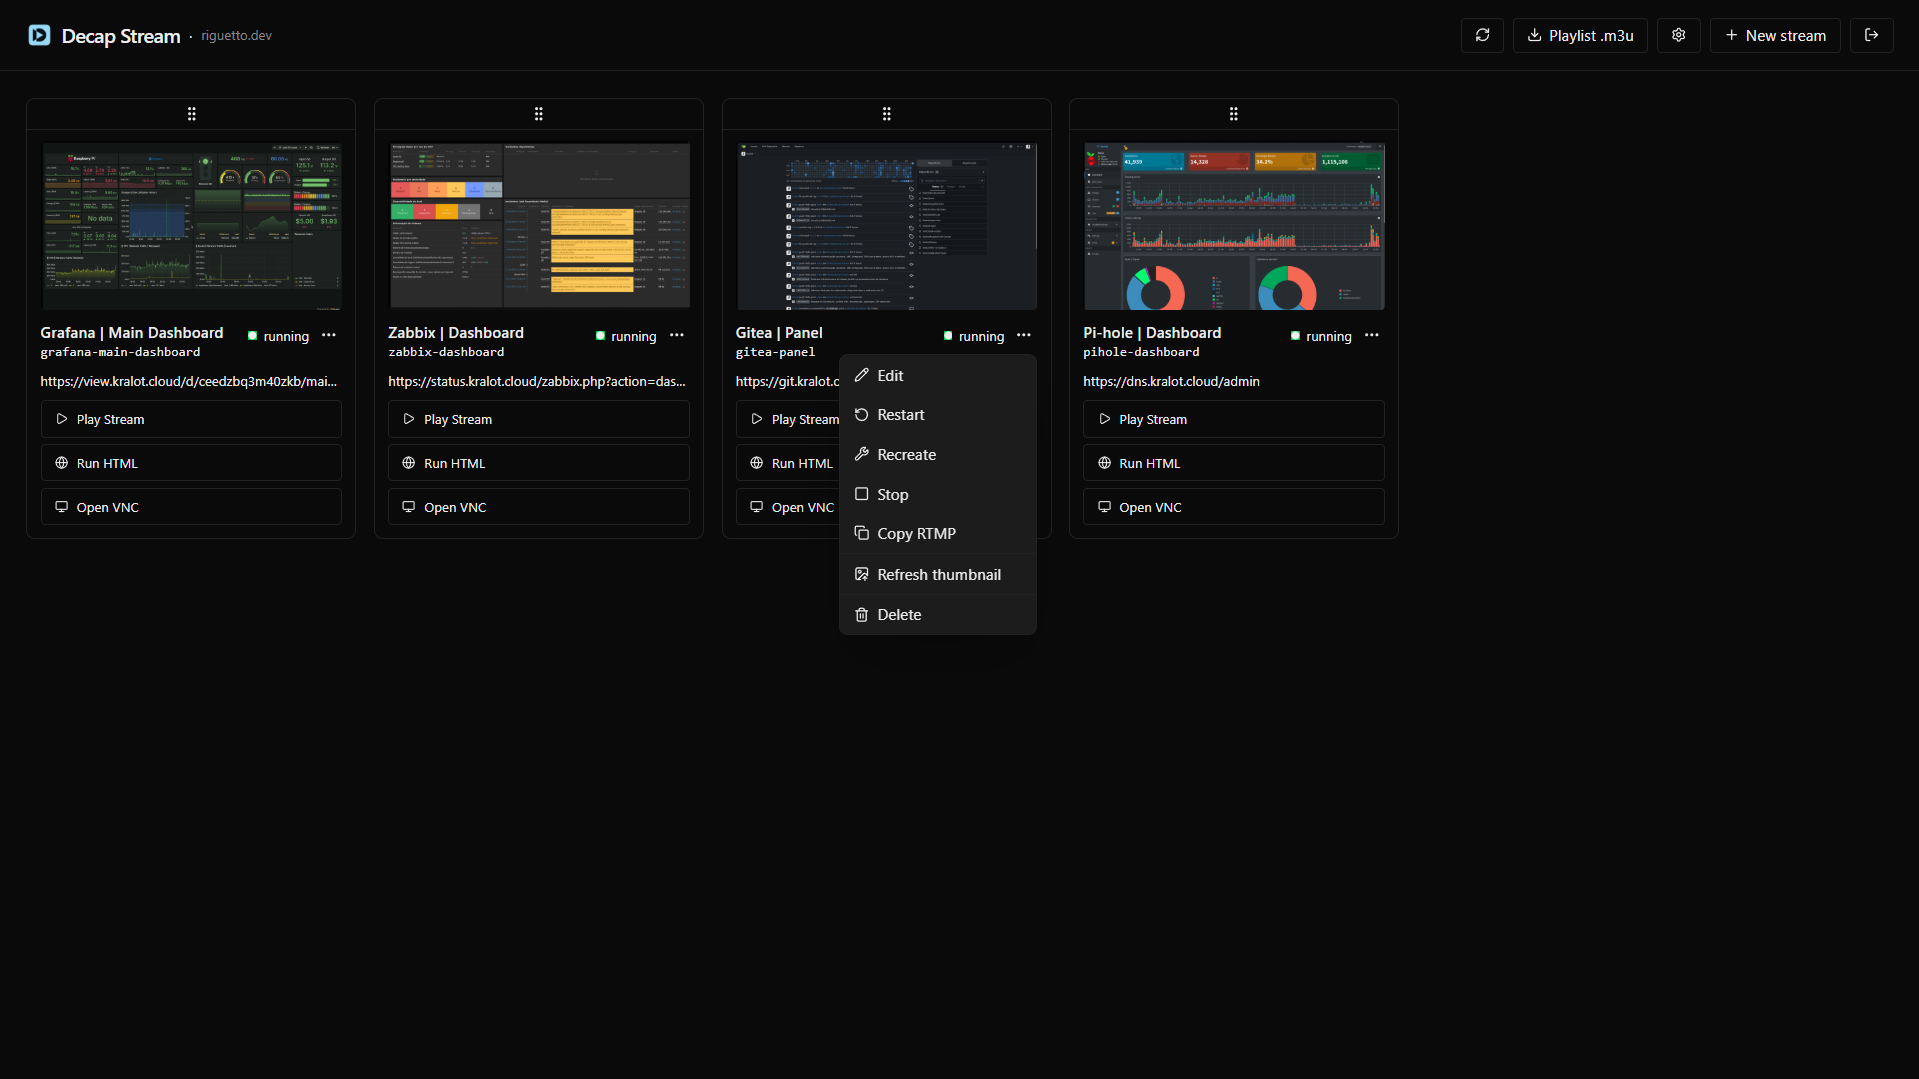
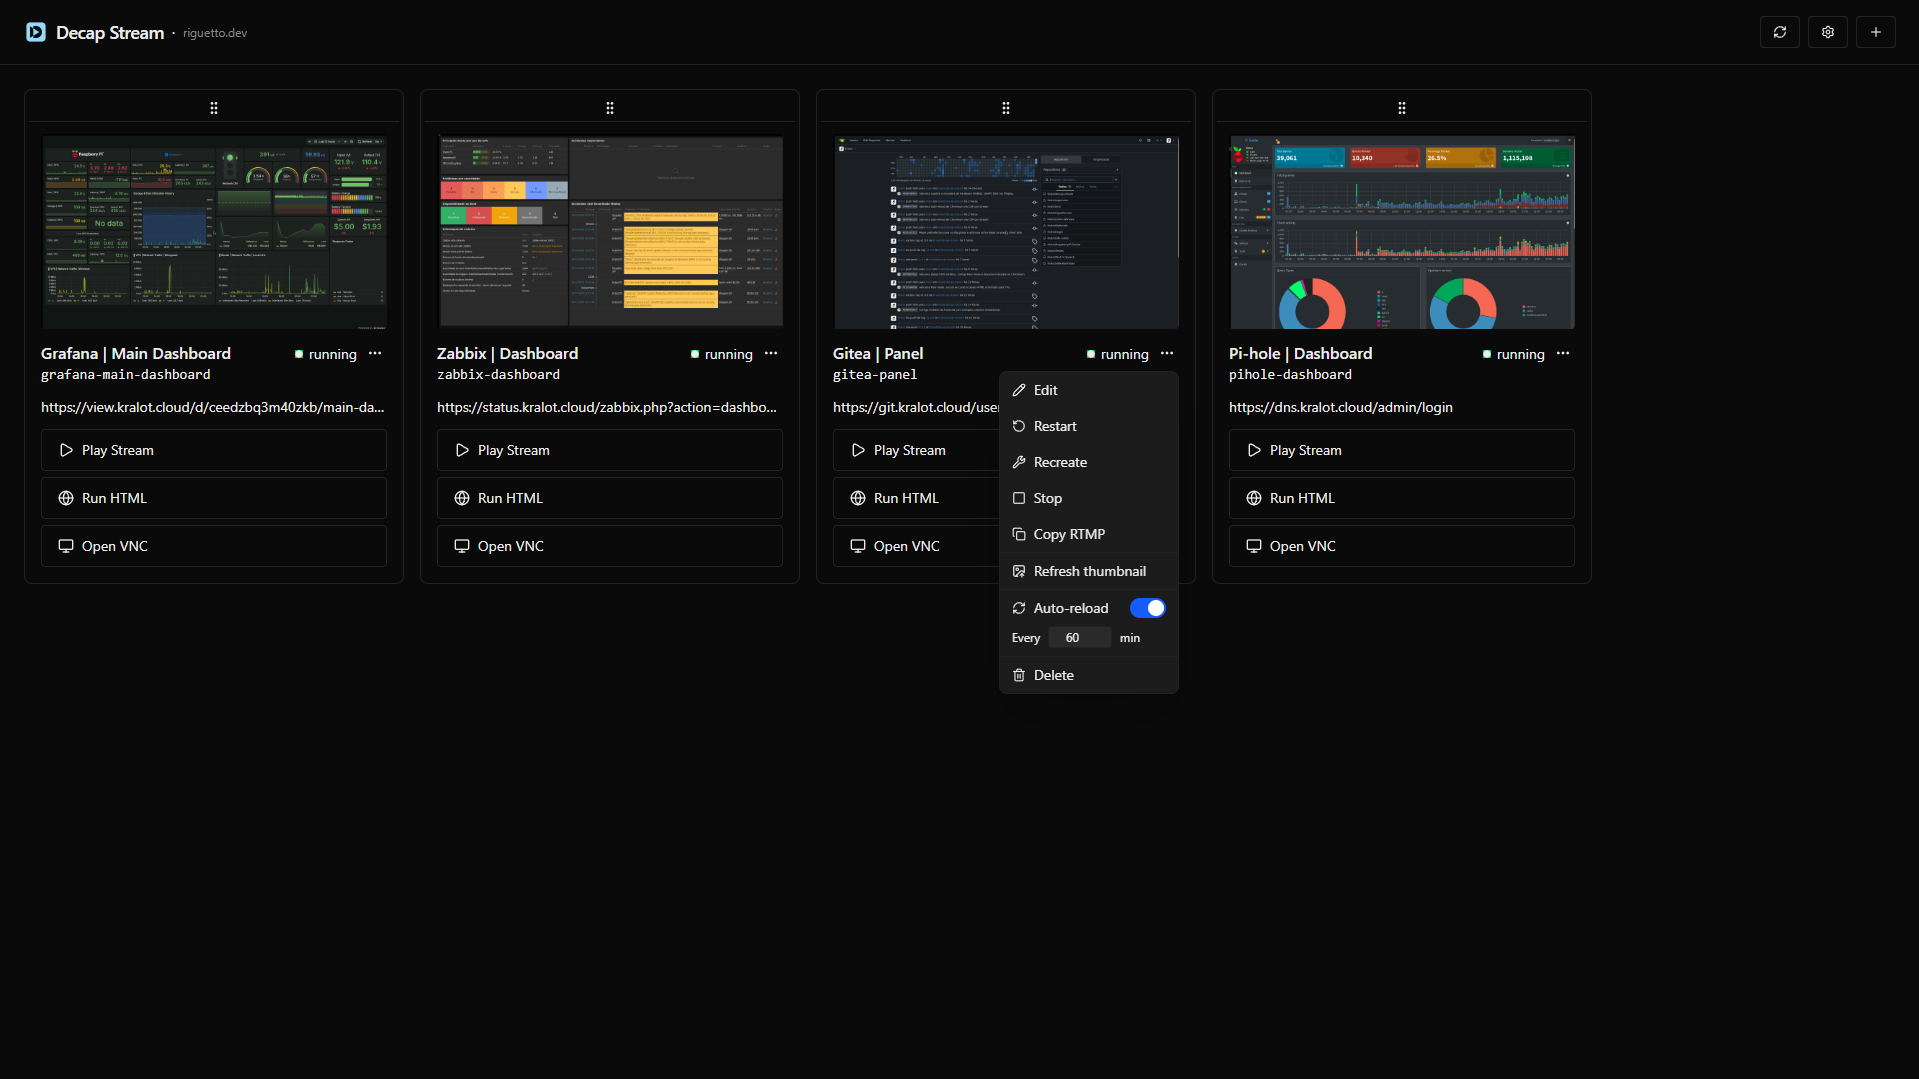
Adiciona layout mobile responsivo e ícones PWA
---

- Adicionado FABs flutuantes (Refresh e Add) no canto inferior direito para telas abaixo de 640px;
- Ocultados botões de Refresh e Add do header no mobile (hidden sm:flex);
- Cards passam a ocupar largura total no mobile (sm:max-w-[...] com prefixo responsivo em page.tsx e StreamCard.tsx);
- Adicionado overflow-x: hidden no body para eliminar scroll horizontal no mobile;
- Seletor de tamanho de card ocultado no popup de Settings no mobile (hidden sm:flex);
- Adicionados ícones apple-touch-icon.png e apple-touch-icon-dark.png em public/ para instalação como PWA;
- Registrados os ícones no metadata do layout com suporte a light/dark via media query;
- Corrigido estilo do toggle de GPU no StreamForm para transição mais consistente;
- Reduzido shm_size de 2gb para 1gb no exemplo do compose no CHANGELOG.md;
- Atualizada seção de screenshots no README para incluir dashboard-config.png em layout de 3 colunas;

---

diff --git a/src/app/page.tsx b/src/app/page.tsx
@@ -1,7 +1,8 @@
 "use client"
 
-import { useEffect, useState, useCallback } from "react"
+import { useEffect, useState, useCallback, useRef } from "react"
 import { Plus, Download, RefreshCw, Settings, X, LogOut } from "lucide-react"
+import { cn } from "@/lib/utils"
 import { StreamCard } from "@/components/StreamCard"
 import { Toggle } from "@/components/Toggle"
 import type { Stream } from "@/types/stream"
@@ -15,7 +16,7 @@ type GlobalPrefs = { pureMode: boolean; newTab: boolean; autoReload: boolean; re
 
 const DEFAULT_GLOBAL_PREFS: GlobalPrefs = { pureMode: false, newTab: false, autoReload: false, reloadInterval: 2 }
 
-const CARD_WIDTHS: Record<CardSize, string> = { mini: "max-w-[200px]", sm: "max-w-[240px]", md: "max-w-[300px]", lg: "max-w-[380px]" }
+const CARD_WIDTHS: Record<CardSize, string> = { mini: "sm:max-w-[200px]", sm: "sm:max-w-[240px]", md: "sm:max-w-[300px]", lg: "sm:max-w-[380px]" }
 
 function SortableStreamCard(props: {
   stream: Stream
@@ -41,7 +42,7 @@ function SortableStreamCard(props: {
 }
 
 function SkeletonCard({ size = "sm" }: { size?: CardSize }) {
-  const widths = { mini: "max-w-[200px]", sm: "max-w-[240px]", md: "max-w-[300px]", lg: "max-w-[380px]" }
+  const widths = { mini: "sm:max-w-[200px]", sm: "sm:max-w-[240px]", md: "sm:max-w-[300px]", lg: "sm:max-w-[380px]" }
   return (
     <div className={`rounded-lg border border-border bg-card p-3 flex flex-col gap-2.5 w-full ${widths[size]} animate-pulse`}>
       <div className="flex justify-between items-start">
@@ -82,7 +83,7 @@ function SettingsPopup({ cardSize, onCardSize, globalPrefs, onGlobalPrefs, authE
           </button>
         </div>
 
-        <div className="flex flex-col gap-2">
+        <div className="hidden sm:flex flex-col gap-2">
           <p className="text-xs text-muted-foreground tracking-wider uppercase">Card size</p>
           <div className="flex gap-2">
             {(["mini", "sm", "md", "lg"] as CardSize[]).map((s) => (
@@ -154,6 +155,8 @@ export default function GalleryPage() {
   const [localStatuses, setLocalStatuses] = useState<Record<string, string | null>>({})
   const [loading, setLoading] = useState(true)
   const [refreshing, setRefreshing] = useState(false)
+  const [spinningFab, setSpinningFab] = useState(false)
+  const spinTimerRef = useRef<ReturnType<typeof setTimeout> | null>(null)
   const [cardSize, setCardSize] = useState<CardSize>("md")
   const [settingsOpen, setSettingsOpen] = useState(false)
   const [authEnabled, setAuthEnabled] = useState(false)
@@ -224,6 +227,15 @@ export default function GalleryPage() {
     setLocalStatuses((prev) => ({ ...prev, [id]: s }))
   }, [])
 
+  async function handleFabRefresh() {
+    if (spinTimerRef.current) clearTimeout(spinTimerRef.current)
+    setSpinningFab(true)
+    const t0 = Date.now()
+    await fetchStreams(true)
+    const remaining = Math.max(0, 1000 - (Date.now() - t0))
+    spinTimerRef.current = setTimeout(() => setSpinningFab(false), remaining)
+  }
+
   function downloadPlaylist() {
     window.location.href = `/api/streams/playlist?host=${window.location.hostname}&port=8888`
   }
@@ -235,21 +247,21 @@ export default function GalleryPage() {
 
   return (
     <div className="min-h-screen flex flex-col">
-      <header className="border-b border-border px-6 py-4 flex items-center justify-between">
-        <div className="flex items-center gap-2">
-          <img src="/web-app-manifest-192x192.png" alt="Decap Stream" className="w-6 h-6 rounded" />
-          <h1 className="text-lg font-semibold tracking-tight">Decap Stream</h1>
-          <span className="text-muted-foreground/40 text-sm select-none">·</span>
-          <a href="https://riguetto.dev" target="_blank" rel="noopener noreferrer" className="text-xs text-[#888] hover:text-[#ededed] hover:underline transition-colors">riguetto.dev</a>
+      <header className="border-b border-border px-4 sm:px-6 py-3 sm:py-4 flex items-center justify-between gap-2">
+        <div className="flex items-center gap-2 min-w-0 overflow-hidden">
+          <img src="/web-app-manifest-192x192.png" alt="Decap Stream" className="w-6 h-6 rounded shrink-0" />
+          <h1 className="text-lg font-semibold tracking-tight whitespace-nowrap">Decap Stream</h1>
+          <span className="text-muted-foreground/40 text-sm select-none whitespace-nowrap">·</span>
+          <a href="https://riguetto.dev" target="_blank" rel="noopener noreferrer" className="text-xs text-[#888] hover:text-[#ededed] hover:underline transition-colors whitespace-nowrap">riguetto.dev</a>
         </div>
-        <div className="flex items-center gap-2">
-          <button onClick={() => fetchStreams(true)} className={btnBase} title="Refresh">
-            <RefreshCw className={`w-3.5 h-3.5 ${refreshing ? "animate-spin" : ""}`} />
+        <div className="flex items-center gap-2 shrink-0">
+          <button onClick={handleFabRefresh} className={cn(btnBase, "hidden sm:flex")} title="Refresh">
+            <RefreshCw className={`w-3.5 h-3.5 ${spinningFab ? "animate-spin" : ""}`} />
           </button>
           <button onClick={() => setSettingsOpen((v) => !v)} className={btnBase} title="Settings">
             <Settings className="w-3.5 h-3.5" />
           </button>
-          <button onClick={() => window.location.href = "/streams/new"} className={btnPrimary} title="New stream">
+          <button onClick={() => window.location.href = "/streams/new"} className={cn(btnPrimary, "hidden sm:flex")} title="New stream">
             <Plus className="w-3.5 h-3.5" />
           </button>
         </div>
@@ -268,9 +280,9 @@ export default function GalleryPage() {
         />
       )}
 
-      <main className="flex-1 p-6">
+      <main className="flex-1 px-3 pt-3 pb-40 sm:p-6">
         {showSkeleton ? (
-          <div className="flex flex-wrap gap-4">
+          <div className="flex flex-wrap gap-3 sm:gap-4 justify-center sm:justify-start">
             {[...Array(refreshing ? Math.max(streams.length, 1) : 4)].map((_, i) => (
               <SkeletonCard key={i} size={cardSize} />
             ))}
@@ -285,7 +297,7 @@ export default function GalleryPage() {
         ) : (
           <DndContext sensors={sensors} collisionDetection={closestCenter} onDragEnd={handleDragEnd}>
             <SortableContext items={streams.map((s) => s.id)} strategy={rectSortingStrategy}>
-              <div className="flex flex-wrap gap-4">
+              <div className="flex flex-wrap gap-3 sm:gap-4 justify-center sm:justify-start">
                 {streams.map((s) => (
                   <SortableStreamCard
                     key={s.id}
@@ -303,6 +315,23 @@ export default function GalleryPage() {
           </DndContext>
         )}
       </main>
+
+      <div className="fixed bottom-6 right-6 z-50 flex flex-col items-center gap-3 sm:hidden">
+        <button
+          onClick={handleFabRefresh}
+          className="w-12 h-12 rounded-full border border-[#333] bg-[#1c1c1c] shadow-lg flex items-center justify-center active:bg-[#333] transition-colors"
+          title="Refresh"
+        >
+          <RefreshCw className={`w-4 h-4 ${spinningFab ? "animate-spin" : ""}`} />
+        </button>
+        <button
+          onClick={() => window.location.href = "/streams/new"}
+          className="w-14 h-14 rounded-full border border-[#333] bg-[#1c1c1c] shadow-lg flex items-center justify-center active:bg-[#333] transition-colors"
+          title="New stream"
+        >
+          <Plus className="w-6 h-6" />
+        </button>
+      </div>
     </div>
   )
 }

diff --git a/src/components/StreamForm.tsx b/src/components/StreamForm.tsx
@@ -281,18 +281,10 @@ export function StreamForm({ initial }: Props) {
                 <div className="flex items-center gap-3">
                   <button
                     type="button"
-                    role="switch"
-                    aria-checked={form.gpu ?? false}
                     onClick={() => set("gpu", !form.gpu)}
-                    className={cn(
-                      "relative inline-flex h-5 w-9 shrink-0 cursor-pointer rounded-full border-2 border-transparent transition-colors focus-visible:outline-none",
-                      form.gpu ? "bg-primary" : "bg-zinc-600"
-                    )}
+                    className={cn("relative w-9 h-5 rounded-full transition-colors shrink-0 overflow-hidden", form.gpu ? "bg-blue-600" : "bg-zinc-600")}
                   >
-                    <span className={cn(
-                      "pointer-events-none inline-block h-4 w-4 rounded-full bg-white shadow-lg transform transition-transform",
-                      form.gpu ? "translate-x-4" : "translate-x-0"
-                    )} />
+                    <span className={cn("absolute top-0.5 w-4 h-4 rounded-full bg-white transition-all", form.gpu ? "left-[18px]" : "left-0.5")} />
                   </button>
                   <div className="flex items-center gap-1.5">
                     <span className="text-sm">GPU acceleration (Chromium)</span>

diff --git a/src/components/StreamCard.tsx b/src/components/StreamCard.tsx
@@ -59,7 +59,7 @@ function copyToClipboard(text: string) {
   return Promise.resolve()
 }
 
-const CARD_WIDTHS = { mini: "max-w-[200px]", sm: "max-w-[240px]", md: "max-w-[300px]", lg: "max-w-[380px]" }
+const CARD_WIDTHS = { mini: "sm:max-w-[200px]", sm: "sm:max-w-[240px]", md: "sm:max-w-[300px]", lg: "sm:max-w-[380px]" }
 
 const SCALE = {
   mini: { card: "p-2 gap-2",     name: "text-xs",  meta: "text-[10px]", btn: "text-[10px] px-2 py-1 gap-1.5",   btnIcon: "w-2.5 h-2.5", menuIcon: "w-3.5 h-3.5", dot: "w-1.5 h-1.5" },

diff --git a/src/app/layout.tsx b/src/app/layout.tsx
@@ -8,6 +8,12 @@ const geistMono = Geist_Mono({ variable: "--font-geist-mono", subsets: ["latin"]
 export const metadata: Metadata = {
   title: "DecapStream",
   description: "Headless stream manager",
+  icons: {
+    apple: [
+      { url: "/apple-touch-icon.png", sizes: "180x180" },
+      { url: "/apple-touch-icon-dark.png", sizes: "180x180", media: "(prefers-color-scheme: dark)" },
+    ],
+  },
 }
 
 export default function RootLayout({ children }: { children: React.ReactNode }) {

diff --git a/src/app/globals.css b/src/app/globals.css
@@ -31,6 +31,7 @@ body {
   background: var(--background);
   color: var(--foreground);
   margin: 0;
+  overflow-x: hidden;
 }
 
 button {

diff --git a/README.md b/README.md
@@ -10,8 +10,9 @@ Turn any web page into an RTMP/HLS stream. Chromium renders the page, ffmpeg cap
 ![Dashboard](./screenshots/dashboard.png)
 
 <p align="center">
-  <img src="./screenshots/stream-config.png" alt="Stream Config" width="49%" />
-  <img src="./screenshots/login.png" alt="Login Page" width="49%" />
+  <img src="./screenshots/dashboard-config.png" alt="Dashboard Config" width="32.5%" />
+  <img src="./screenshots/stream-config.png" alt="Stream Config" width="32.5%" />
+  <img src="./screenshots/login.png" alt="Login Page" width="32.5%" />
 </p>
 
 ## How it works
@@ -43,6 +44,7 @@ All processes are managed by Supervisord. The web UI is a Next.js app that contr
 - **Open in new tab** — global toggle in Settings to open any button in a new tab instead of navigating in place; saved in the browser
 - **Chromium auto-reload** — per-stream toggle to reload the Chromium page on a configurable interval via Chrome DevTools Protocol; configured from the card menu and persisted on the server
 - **Player client-side auto-reload** — global toggle in Settings to reload the HLS player itself on a configurable interval (in minutes)
+- **Mobile-friendly UI** — responsive layout for phones (< 640 px): Add and Refresh become floating action buttons in the bottom-right corner, cards fill the screen width automatically, no horizontal scroll; installable as a PWA with separate light/dark home-screen icons
 
 ## Platform Support
 

diff --git a/CHANGELOG.md b/CHANGELOG.md
@@ -16,6 +16,7 @@ Turn any web page into an RTMP/HLS stream. Chromium renders the page in a virtua
 - **Open in new tab** — global toggle in Settings to open any action button in a new tab; saved in the browser
 - **Optional UI authentication** — set `AUTH_USER` + `AUTH_PASS` to password-protect the entire UI
 - **Persistent desired state** — streams restore automatically on container restart
+- **Mobile-friendly UI** — responsive layout for phones: floating Add/Refresh FABs, full-width cards, no horizontal scroll
 
 ### Quick start
 
@@ -24,7 +25,7 @@ services:
   decap-stream:
     image: ghcr.io/riguettodev/decap-stream:latest
     restart: unless-stopped
-    shm_size: "2gb"
+    shm_size: "1gb"
     security_opt:
       - seccomp:unconfined
     ports:
